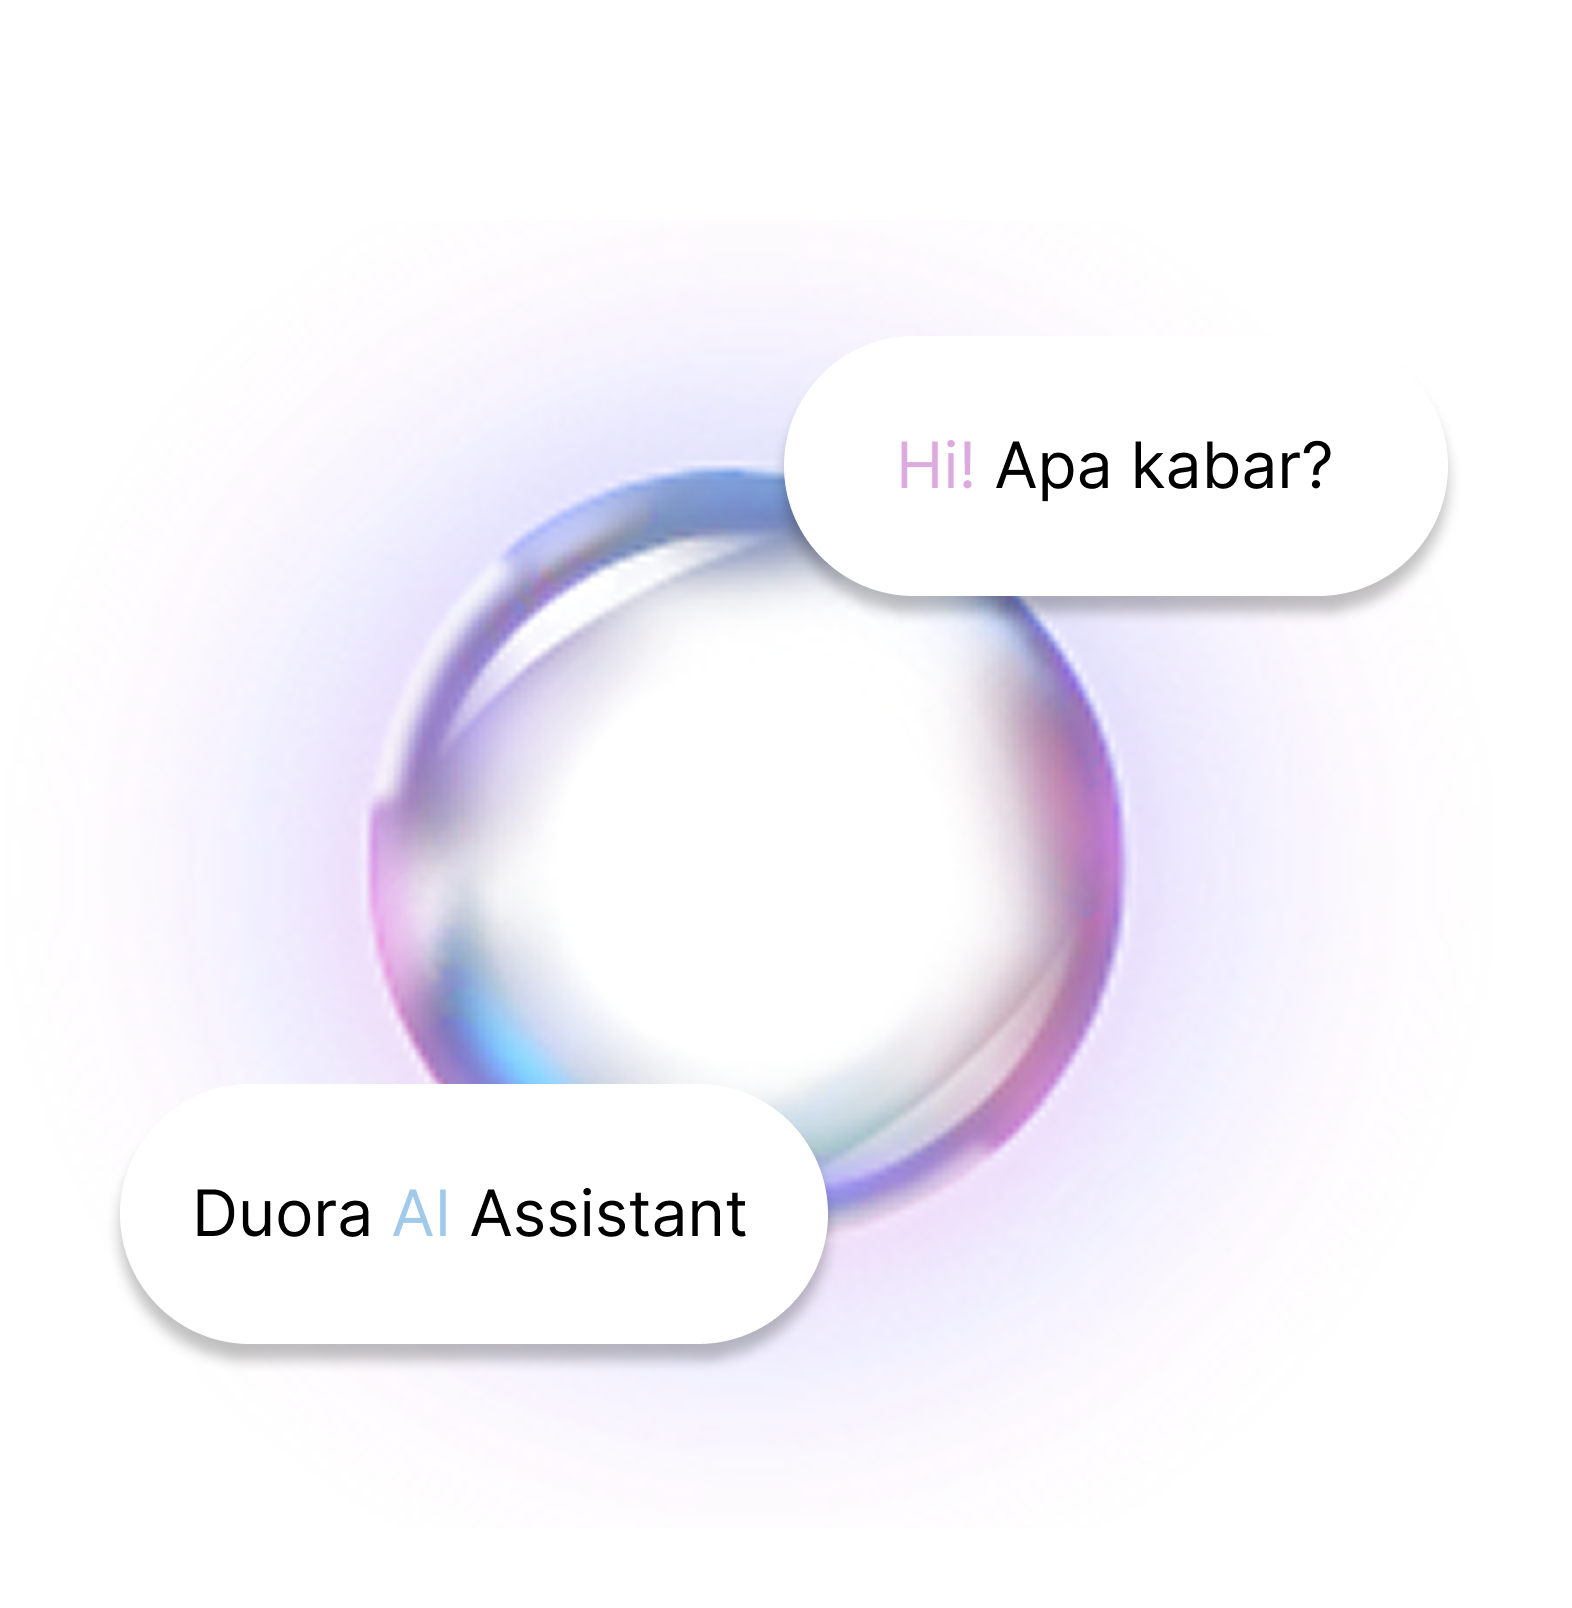
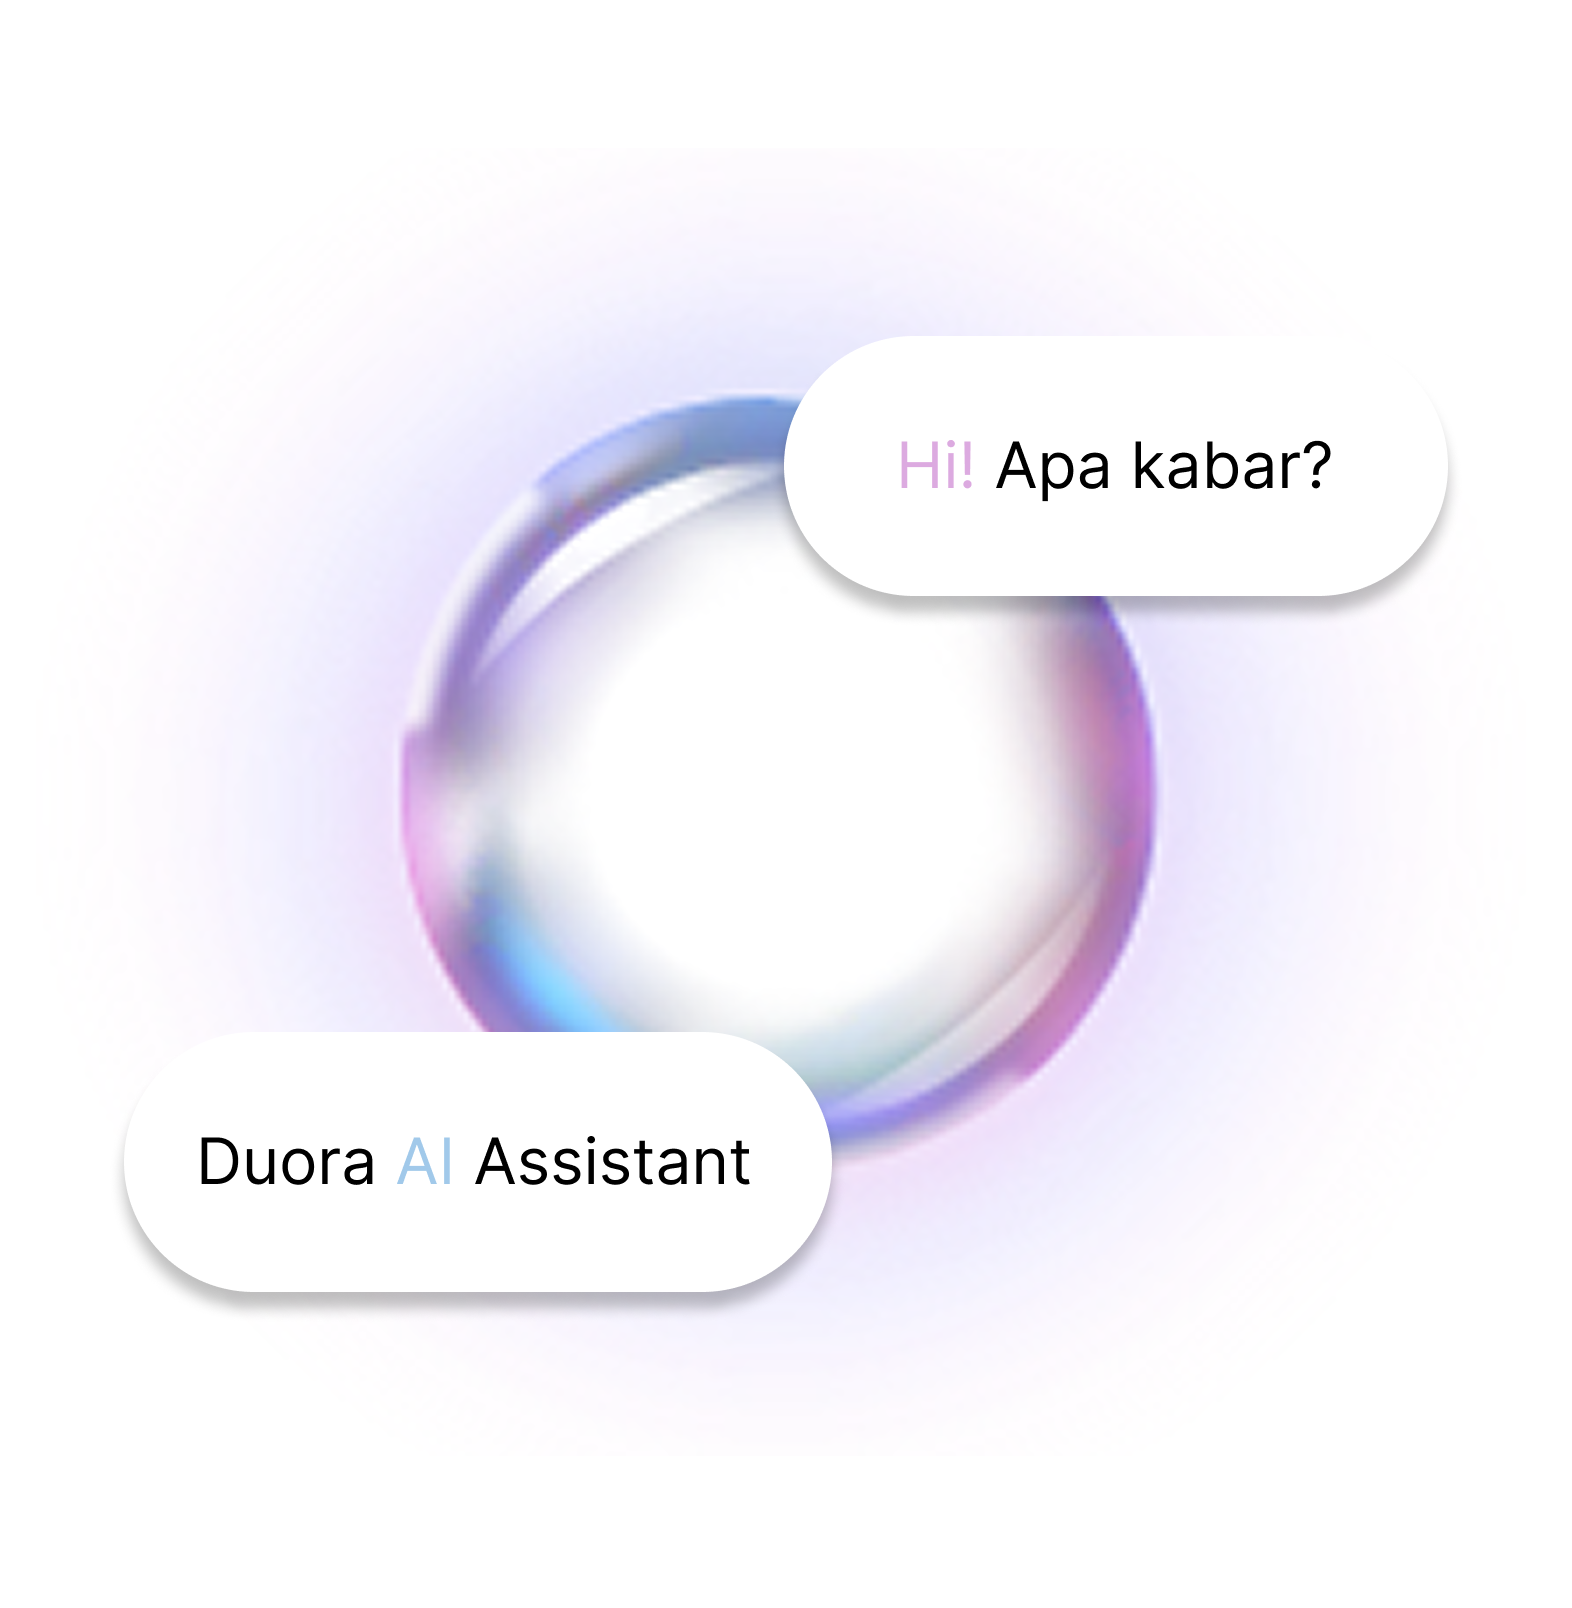
update: pollish ui

Changed region(s): [[0.0623, 0.3731, 0.7481, 0.8706], [0.2182, 0.2177, 0.5299, 0.6841]]

diff --git a/src/app/page.tsx b/src/app/page.tsx
@@ -11,7 +11,7 @@ import {
   type Variants,
 } from 'framer-motion'
 import duoraLogo from '@/assets/logo.png'
-import hero1 from '@/assets/hero/hero1-2.png'
+import hero1 from '@/assets/hero/hero1.png'
 import hero2 from '@/assets/hero/hero2.png'
 import hero3 from '@/assets/hero/hero3-2.png'
 
